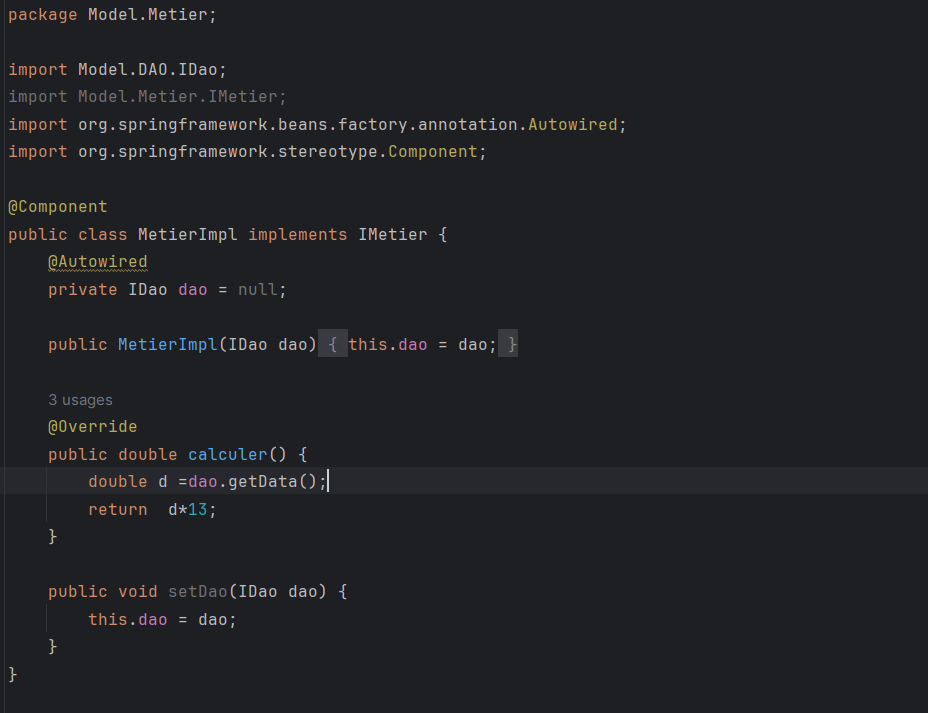
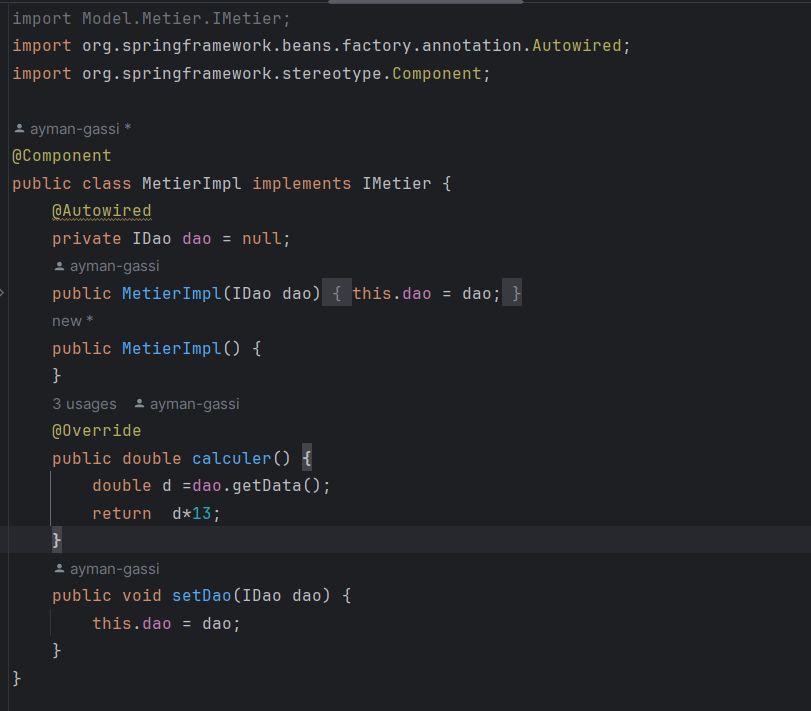
update TP01

diff --git a/TP01/src/main/java/Presentation/mainV4.java b/TP01/src/main/java/Presentation/mainV4.java
@@ -1,20 +1,15 @@
 package Presentation;
 
-import Model.DAO.DaoImpl;
 import Model.DAO.IDao;
 import Model.Metier.IMetier;
-import Model.Metier.MetierImpl;
-import org.springframework.context.ApplicationContext;
-import org.springframework.boot.SpringApplication;
-import org.springframework.boot.autoconfigure.SpringBootApplication;
 import org.springframework.context.ApplicationContext;
 import org.springframework.context.annotation.AnnotationConfigApplicationContext;
 
 public class mainV4 {
     public static void main(String[] args) {
-        ApplicationContext context = new AnnotationConfigApplicationContext();
-        IDao dao = (IDao) context.getBean(IDao.class);
-        System.out.println(dao.getData());
+        ApplicationContext context = new AnnotationConfigApplicationContext("Model");
+        IMetier metier = (IMetier) context.getBean(IMetier.class);
+        System.out.println(metier.calculer());
 
 
     }

diff --git a/TP01/src/main/java/Model/Metier/MetierImpl.java b/TP01/src/main/java/Model/Metier/MetierImpl.java
@@ -9,17 +9,16 @@ import org.springframework.stereotype.Component;
 public class MetierImpl implements IMetier {
     @Autowired
     private IDao dao = null;
-
     public MetierImpl(IDao dao) {
         this.dao = dao;
     }
-
+    public MetierImpl() {
+    }
     @Override
     public double calculer() {
         double d =dao.getData();
         return  d*13;
     }
-
     public void setDao(IDao dao) {
         this.dao = dao;
     }

diff --git a/TP01/README.md b/TP01/README.md
@@ -36,7 +36,7 @@
 <img src="./Captures/main3.png">
 
 ### Main V3 ( Spring Annotations )
-<img src="./Captures/main3.png">
+<img src="./Captures/main4.png">
 
 
 
